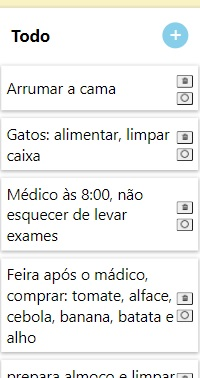
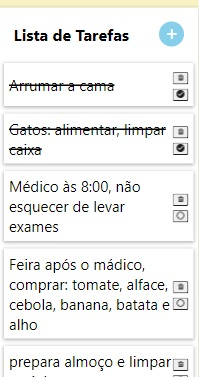
visual update and images update

diff --git a/src/App.js b/src/App.js
@@ -45,7 +45,7 @@ function App() {
 
     return (
         <div className="container card">
-            <header><h1>Todo</h1><button onClick={() => { setShowModal(true) }}>+</button></header>
+            <header><h1>Lista de Tarefas</h1><button onClick={() => { setShowModal(true) }}>+</button></header>
             <List onDone={onDone} onItemDeleted={onItemDeleted} items={items}></List>
             <Modal show={showModal} onHideModal={onHideModal}><TodoForm onAddItem={onAddItem}></TodoForm></Modal>
         </div>
